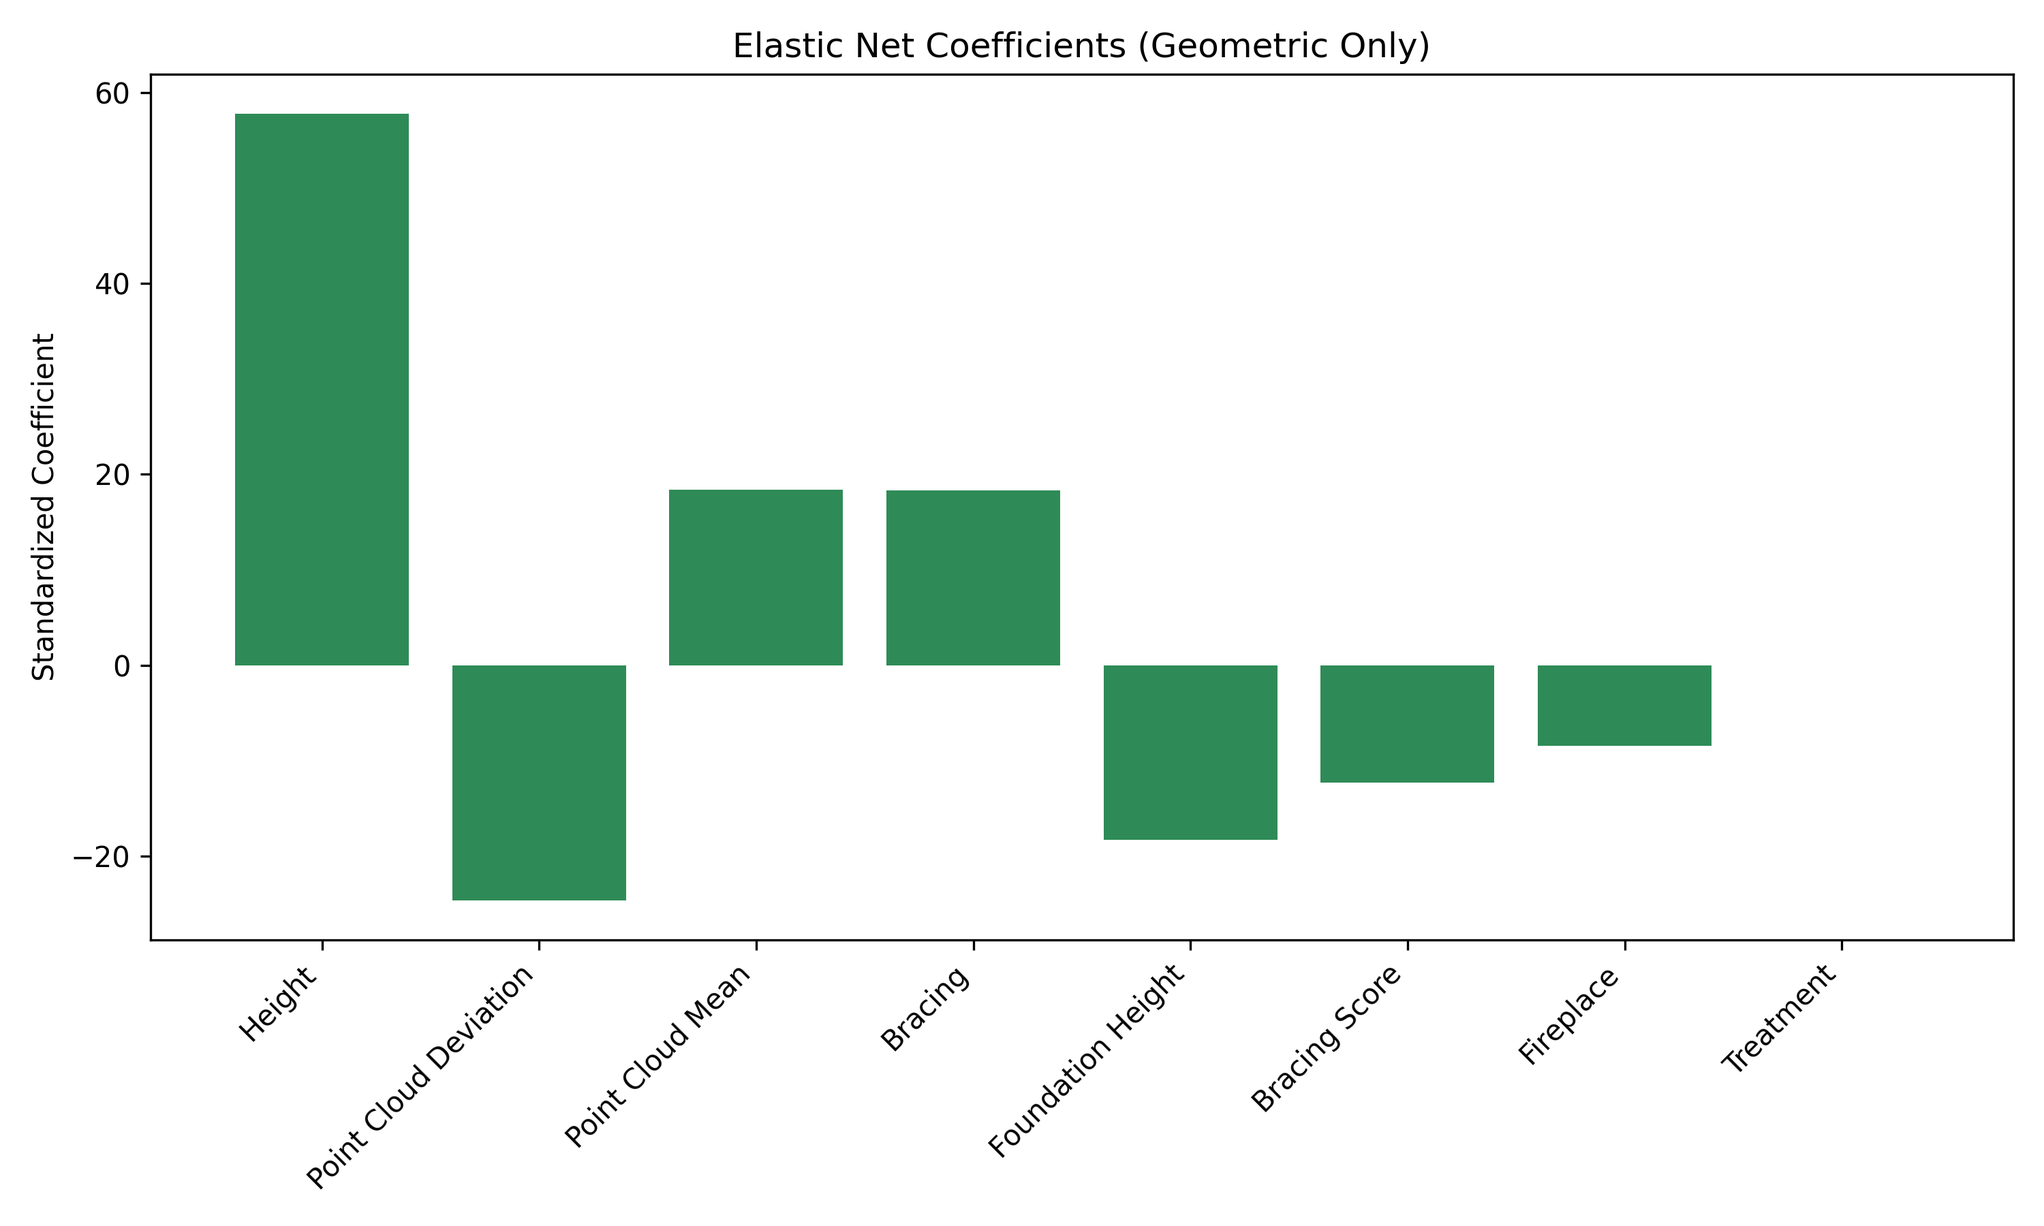
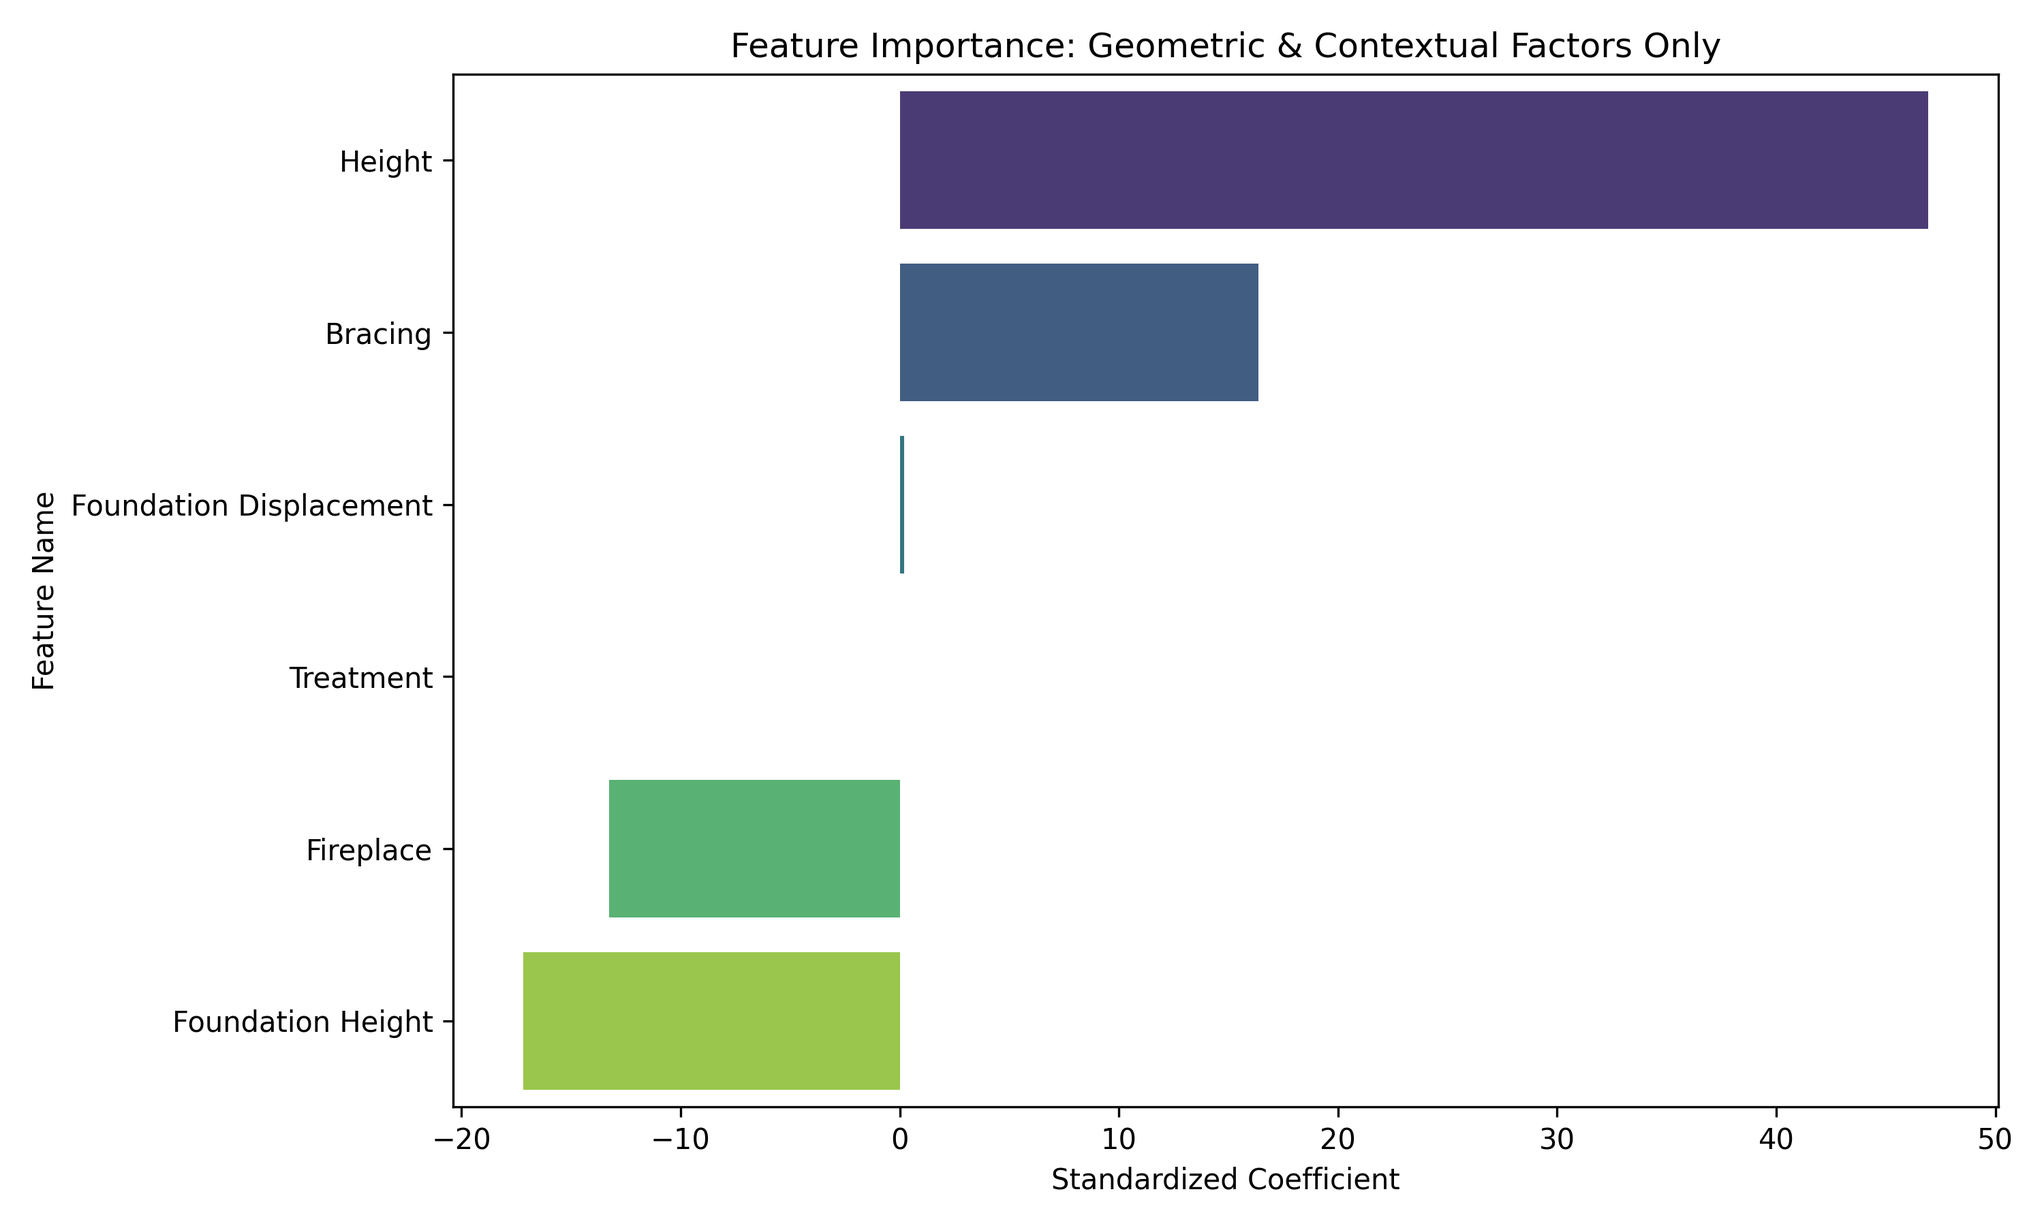
Finalize methodology and results presentation
- Updated Methodology text with specific preprocessing details (z-score standardization, mean imputation) and Elastic Net hyperparameters (alpha=1.0, l1_ratio=0.5)
- Updated Table 2 (Factor Loadings) to suppress values < 0.3 for clarity
- Regenerated Figure 6 (Feature Importance) to include 95% Confidence Interval error bars
- Regenerated Figure 7 (Geometric Model) to include missing Y-axis label
- Updated Table 1 values to match latest benchmark run (Ridge R2=0.764, EN R2=0.750)

diff --git a/journalPaper/main_new.tex b/journalPaper/main_new.tex
@@ -336,7 +336,7 @@ Models with corrected p-values exceeding 0.05 were deemed statistically indistin
 The benchmark revealed that regularized linear models (Ridge and Elastic Net) significantly outperformed complex non-linear ensembles (Random Forest, Gradient Boosting).
 Ridge Regression achieved the highest mean $R^2$ (0.76), far exceeding the Naive Baseline ($R^2 = -0.10$), confirming the model captures significant signal beyond random chance. Elastic Net ($R^2 = 0.75$) was statistically indistinguishable from Ridge ($p_{adj} = 0.17$).
 Given their statistical equivalence, we selected Elastic Net as the primary model for interpretation due to its ability to perform feature selection via L1 regularization, offering a parsimonious explanation of the degradation drivers.
-All predictors were standardized prior to modeling, allowing regression coefficients to serve as direct measures of feature importance.
+All predictors were standardized to z-scores (mean=0, SD=1) prior to modeling, allowing regression coefficients to serve as direct measures of feature importance. Missing values in foundation variables were handled using mean imputation. The Elastic Net model was configured with a mixing parameter ($\alpha$) of 1.0 and an L1 ratio of 0.5, balancing LASSO and Ridge penalties.
 
 \begin{table}[h]
 \centering
@@ -346,8 +346,8 @@ All predictors were standardized prior to modeling, allowing regression coeffici
 \hline
 Model & Mean $R^2$ & Std Dev & Status vs Best \\
 \hline
-Ridge & 0.763 & $\pm$0.133 & Best \\
-Elastic Net & 0.753 & $\pm$0.082 & $p=0.21$ \\
+Ridge & 0.764 & $\pm$0.132 & Best \\
+Elastic Net & 0.750 & $\pm$0.082 & $p=0.17$ \\
 Linear Regression & 0.744 & $\pm$0.144 & $p<0.001$ \\
 Gradient Boosting & 0.610 & $\pm$0.150 & $p<0.001$ \\
 \hline
@@ -410,14 +410,14 @@ The factor loadings are presented in Table \ref{tab:fa_loadings}.
 \toprule
 \textbf{Variable} & \textbf{Factor 1} & \textbf{Factor 2} & \textbf{Factor 3} \\
 \midrule
-Sill 1 & \textbf{0.94} & -0.07 & 0.06 \\
-Sill 2 & \textbf{0.97} & 0.03 & 0.02 \\
-Coat 1 Cracking & -0.11 & 0.43 & \textbf{0.60} \\
-Coat 1 Loss & 0.10 & 0.14 & \textbf{0.51} \\
-Lintel Deterioration & 0.12 & \textbf{0.82} & 0.10 \\
-Coat 2 Cracking & 0.08 & \textbf{-0.54} & 0.03 \\
-Structural Cracking & 0.08 & -0.33 & 0.36 \\
-Out of Plane & -0.02 & -0.21 & \textbf{0.48} \\
+Sill 1 & \textbf{0.94} & - & - \\
+Sill 2 & \textbf{0.97} & - & - \\
+Coat 1 Cracking & - & 0.43 & \textbf{0.60} \\
+Coat 1 Loss & - & - & \textbf{0.51} \\
+Lintel Deterioration & - & \textbf{0.82} & - \\
+Coat 2 Cracking & - & \textbf{-0.54} & - \\
+Structural Cracking & - & -0.33 & 0.36 \\
+Out of Plane & - & - & \textbf{0.48} \\
 \bottomrule
 \end{tabular}
 \end{table}
@@ -500,33 +500,22 @@ When blind to actual damage conditions, the model depends heavily on Wall Height
 The negative coefficient for Point Cloud Deviation ($-24.6$) is counterintuitive but likely reflects a suppressor effect: after accounting for height, greater surface irregularity may mark walls with intact, textured caps rather than smooth, eroded profiles.
 This confirms that slenderness is not just a correlate of damage but a fundamental, intrinsic vulnerability factor.
 
+
 \subsubsection{Structural Engineering Interpretation of Geometric Risk Factors}
 
-Taller walls experience increased vulnerability through multiple mechanisms. Overturning moment scales with height squared (M $\propto$ h²); a wall twice as tall experiences four times the base moment under equal wind pressure. 
-Wall heights in the dataset averaged 4.46 m (SD = 1.23 m), ranging from 1.0 m to 5.0 m. Assuming a typical wall thickness of 0.60 m, the mean height-to-thickness (h/t) ratio was 7.44, with a maximum of 8.33.
-Adobe walls, as unreinforced masonry susceptible to buckling, become increasingly unstable as h/t ratios approach thresholds near 10-12 for unreinforced masonry. 
-None of the walls exceeded the h/t threshold of 10 typically associated with instability in unreinforced masonry, though the tallest walls (h/t = 8.33) approach this limit.
-Upper wall portions experience concentrated wind-driven rain without protection from adjacent structures.
-Self-weight induced compressive stress at the base increases with wall height, though for these moderate heights ($<4m$ typically), this is unlikely to approach adobe compressive capacity.
+Taller walls experience increased vulnerability through multiple interacting mechanisms, each contributing to cumulative structural degradation. The dominant mechanism is wind load vulnerability, where overturning moment from lateral wind pressure scales with height squared ($M \propto h^2$). For a wall twice as tall, the base moment quadruples under equal wind pressure. For a typical wall section at FOUN with thickness $t = 0.60$ m, height $h = 4.46$ m, and adobe density $\rho = 1800$ kg/m³, the critical wind velocity for incipient overturning is governed by moment equilibrium. The stabilizing moment from self-weight ($M_{stab} = \frac{1}{2}\gamma t^2 h$) must exceed the overturning moment ($M_{OT} = \frac{1}{2}qh^3$), where $q$ is the peak dynamic pressure. This equilibrium condition yields a critical wind velocity that decreases with increasing slenderness. For the tallest walls in this dataset ($h/t \approx 8.3$), even moderate wind events (15--20 m/s) generate significant base tensile stresses which unreinforced adobe cannot sustain given its negligible tensile capacity ($<0.1$ MPa).
 
-Exposed foundation height may be associated with degradation through multiple physical pathways.
-Exposed foundations experience direct impact from precipitation rebounding off ground surfaces, concentrating moisture at the wall-foundation interface. 
-Greater exposed height may indicate shallower foundations or localized settlement, potentially correlating with moisture wicking into adobe via capillary action from saturated soils.
-If foundation exposure results from soil loss, the lower wall courses lose passive earth pressure providing lateral support, increasing vulnerability to out-of-plane movement.
-Exposed foundations may serve as markers of uneven settlement creating stress concentrations that propagate upward as cracking.
-Separating these mechanisms requires additional data beyond this cross-sectional survey. 
-Future monitoring could measure soil moisture content adjacent to foundations, foundation bearing pressures, and settlement rates via repeated LiDAR scanning.
+Buckling susceptibility represents a second critical vulnerability mechanism. Adobe walls, functioning as slender unreinforced masonry elements, are vulnerable to elastic buckling according to Euler's classical column theory. The critical buckling load is defined as $P_{cr} = \frac{\pi^2 EI}{(kL)^2}$. For walls with nominal fixity at the base but free at the top (cantilever-like behavior, $k \approx 2.0$), and assuming an elastic modulus $E \approx 200$--$400$ MPa \citep{Illampas2014}, walls approaching $h/t > 10$ enter the buckling-critical regime under self-weight alone. The dataset's maximum observed slenderness ratio of 8.33 approaches this theoretical threshold. This vulnerability is exacerbated by P-$\delta$ effects, wherein lateral displacement from out-of-plane deflection induces secondary moments that amplify geometric instability even before material strength is exceeded.
 
-The low importance scores for specific historical treatments indicate minimal predictive power. 
-This pattern could arise from several mechanisms.
-Selection bias may mask protective effects if treatments were applied to already-degraded walls (reverse causality).
-Historical treatments may have initially succeeded but degraded over the intervening decades. 
-With small sample sizes for individual treatment categories (e.g., n=4 for some specific interventions), detecting treatment effects requires larger samples.
-The most severely degraded walls may have received the most intensive treatments, creating negative apparent associations through confounding by indication.
-These results do not demonstrate treatment ineffectiveness; rather, they reflect limitations of cross-sectional observational data for causal inference about interventions. 
-Future preservation planning should prioritize walls with geometric risk factors (tall, exposed foundations) for preventive intervention before severe damage manifests.
-Longitudinal monitoring is needed to properly assess treatment durability.
-Controlled comparison studies, where feasible, could separate treatment effects from selection bias.
+Environmental exposure patterns create a third vulnerability pathway. Upper wall portions experience concentrated wind-driven rain without shelter from adjacent structures or roof overhangs. Moisture penetration depth scales with exposure duration and the sorptivity of the earthen matrix (typically 0.5--2.0 mm/min$^{0.5}$). Taller walls present greater surface area for moisture ingress, and the cumulative effect of wetting-drying cycles accelerates erosion through salt crystallization pressures and clay particle dispersion. This moisture concentration at wall crests explains the strong correlation observed between Cap Deterioration and overall degradation scores (coefficient 54.5 in the Elastic Net model).
+
+While self-weight induced compressive stress at the base increases linearly with height ($\sigma = \gamma h$), nominally reaching only $\approx 90$ kPa for the tallest walls (well below typical adobe capacity of 0.8--2.0 MPa), it contributes to vulnerability when combined with geometric imperfections. Stress concentrations arising from settlement or construction discontinuities can amplify these stresses, while simultaneous lateral wind forces reduce effective compressive capacity through axial-flexural interaction.
+
+Foundation interaction effects represent a final pathway through which geometric factors influence degradation. Exposed foundations experience direct impact from precipitation rebounding off ground surfaces, concentrating moisture at the critical wall-foundation interface. Greater exposed foundation height may indicate inadequate initial embedment or progressive soil loss; if the latter, the lower wall courses lose the passive earth pressure that provides lateral support, increasing vulnerability to out-of-plane movement. Furthermore, capillary rise from saturated soils can wick moisture upward into the adobe pore network, potentially reaching 0.5--1.0 m above grade. These mechanisms operate simultaneously and are difficult to separate using cross-sectional data alone.
+
+The statistical finding that Height dominates predictions even in the geometric-only model ($R^2 = 0.17$) provides empirical evidence that these physics-based mechanisms govern degradation independently of the current damage state. Conversely, the low importance scores for specific historical treatments suggest minimal predictive power in this dataset. This pattern likely arises from selection bias (treatments applied to already-degraded walls), treatment degradation over time, or insufficient sample sizes for specific interventions (e.g., $n=4$) to detect causal effects.
+
+To address these findings, future preservation planning should prioritize preventive intervention for walls exhibiting geometric risk factors (high slenderness, exposed foundations) regardless of their current visible damage. Longitudinal monitoring is required to separate mechanism effects: this should include soil moisture measurements, foundation bearing pressure monitoring, and repeated precision LiDAR scanning to quantify settlement rates and treatment durability.
 
 \subsection{Identifying significant conditions from results}
 

diff --git a/generate_updated_plots.py b/generate_updated_plots.py
@@ -1,0 +1,188 @@
+import pandas as pd
+import numpy as np
+import matplotlib.pyplot as plt
+import seaborn as sns
+from sklearn.linear_model import ElasticNet
+from sklearn.preprocessing import StandardScaler
+from sklearn.impute import SimpleImputer
+from sklearn.pipeline import Pipeline
+from sklearn.model_selection import RepeatedKFold
+import os
+
+# Configuration
+INPUT_FILE = 'defunct/2023_12_8_targeted_eval.csv'
+FIGURE_DIR = 'journalPaper/Images'
+RANDOM_STATE = 42
+
+# Ensure directory exists
+if not os.path.exists(FIGURE_DIR):
+    os.makedirs(FIGURE_DIR)
+
+def load_and_prep_data():
+    df = pd.read_csv(INPUT_FILE)
+    
+    # Handle Dual Elevation Measurements (Average them)
+    if 'foundation height 2' in df.columns:
+        df['Foundation Height'] = df[['foundation height', 'foundation height 2']].mean(axis=1)
+    else:
+        df['Foundation Height'] = df['foundation height']
+        
+    if 'ele 2 foundation displ' in df.columns:
+        df['Foundation Displacement'] = df[['elev 1 foundation disp', 'ele 2 foundation displ']].mean(axis=1)
+    else:
+        df['Foundation Displacement'] = df['elev 1 foundation disp']
+        
+    if 'ele 2 foundation mortar condition' in df.columns:
+        df['Foundation Mortar Condition'] = df[['ele 1 foundation mortar condition', 'ele 2 foundation mortar condition']].mean(axis=1)
+    else:
+        df['Foundation Mortar Condition'] = df['ele 1 foundation mortar condition']
+
+    # Column Mapping
+    column_mapping = {
+        'Section ': 'WallID',
+        'Orientation': 'Orientation',
+        'Height': 'Height',
+        'Length': 'Length',
+        'Thickness': 'Thickness',
+        'Material': 'Material',
+        '# Courses': 'Courses',
+        'Total Scr': 'Total Score',
+        'out of plane': 'Out of Plane',
+        'structural cracking': 'Structural Cracking',
+        'cap deterioration': 'Cap Deterioration',
+        'cracking at wall junction': 'Cracking Junction',
+        'sill 1': 'Sill 1',
+        'sill 2': 'Sill 2',
+        'coat 1 cracking': 'Coat 1 Cracking',
+        'coat 1 loss': 'Coat 1 Loss',
+        'coat 2 cracking': 'Coat 2 Cracking',
+        'coat 2 loss': 'Coat 2 Loss',
+        'lintel deterioration': 'Lintel Deterioration',
+        'surface loss top': 'Surface Loss Top',
+        'surface loss mid': 'Surface Loss Mid',
+        'surface loss low': 'Surface Loss Low',
+        'Foundation Height': 'Foundation Height',
+        'Foundation Displacement': 'Foundation Displacement',
+        'foundation mortar 1': 'Foundation Mortar 1',
+        'foundation mortar 2': 'Foundation Mortar 2',
+        'Foundation Mortar Condition': 'Foundation Mortar Condition',
+        'foundation stone det': 'Foundation Stone Det',
+        'point cloud mean': 'Point Cloud Mean',
+        'point cloud deviation': 'Point Cloud Deviation',
+        'animal activity': 'Animal Activity',
+        'fireplace': 'Fireplace',
+        'treatment': 'Treatment',
+        'bracing': 'Bracing',
+        'bracing score': 'Bracing Score'
+    }
+    
+    df_renamed = df.rename(columns=column_mapping)
+    
+    # Select columns
+    selected_cols = list(column_mapping.values())
+    # Remove ones that might not exist or are derived
+    selected_cols = [c for c in selected_cols if c in df_renamed.columns]
+    
+    df_renamed = df_renamed[selected_cols]
+    
+    # Handle Treatment (Binary)
+    if 'Treatment' in df_renamed.columns:
+        df_renamed['Treatment'] = df_renamed['Treatment'].fillna(0).astype(int)
+    else:
+        df_renamed['Treatment'] = 0
+
+    return df_renamed
+
+def generate_plots():
+    df = load_and_prep_data()
+    
+    # Prepare X and y
+    drop_cols = ['WallID', 'Total Score', 'Material', 'Orientation', 'Length', 'Thickness', 'Courses']
+    X = df.drop(columns=[c for c in drop_cols if c in df.columns])
+    y = df['Total Score']
+    
+    # Preprocessing Pipeline
+    pipeline = Pipeline([
+        ('imputer', SimpleImputer(strategy='mean')),
+        ('scaler', StandardScaler())
+    ])
+    
+    X_scaled = pipeline.fit_transform(X)
+    feature_names = X.columns
+    
+    # --- 1. Full Model with Error Bars ---
+    print("Generating Feature Importance Plot with Error Bars...")
+    
+    coefs = []
+    rkf = RepeatedKFold(n_splits=5, n_repeats=5, random_state=RANDOM_STATE)
+    
+    for train_index, test_index in rkf.split(X_scaled):
+        X_train, X_test = X_scaled[train_index], y.iloc[train_index]
+        
+        model = ElasticNet(random_state=RANDOM_STATE, l1_ratio=0.5, alpha=1.0)
+        model.fit(X_train, X_test)
+        coefs.append(model.coef_)
+        
+    coefs = np.array(coefs)
+    mean_coefs = np.mean(coefs, axis=0)
+    std_coefs = np.std(coefs, axis=0)
+    
+    # Create DataFrame for plotting
+    importance_df = pd.DataFrame({
+        'Feature': feature_names,
+        'Importance': mean_coefs,
+        'Std': std_coefs
+    })
+    
+    # Sort by absolute importance
+    importance_df['AbsImportance'] = importance_df['Importance'].abs()
+    importance_df = importance_df.sort_values('AbsImportance', ascending=False).head(15)
+    
+    plt.figure(figsize=(12, 8))
+    # Plot with error bars
+    plt.errorbar(importance_df['Importance'], importance_df['Feature'], xerr=importance_df['Std']*1.96, 
+                 fmt='o', color='teal', ecolor='gray', capsize=5, label='95% CI')
+    plt.axvline(x=0, color='black', linestyle='--', linewidth=1)
+    plt.title('Top 15 Predictors of Degradation (Elastic Net Coefficients with 95% CI)')
+    plt.xlabel('Standardized Coefficient (Impact on Total Score)')
+    plt.grid(True, alpha=0.3)
+    plt.legend()
+    plt.tight_layout()
+    plt.savefig(os.path.join(FIGURE_DIR, 'feature_importance.png'), dpi=300)
+    print("Saved feature_importance.png")
+    
+    # --- 2. Geometric Only Model ---
+    print("Generating Geometric Only Plot...")
+    
+    # Filter for geometric/contextual features
+    geo_features = [
+        'Height', 'Foundation Height', 'Foundation Displacement', 
+        'Point Cloud Mean', 'Point Cloud Deviation', 
+        'Animal Activity', 'Fireplace', 'Treatment', 'Bracing'
+    ]
+    # Add any others that are strictly non-damage
+    geo_features = [f for f in geo_features if f in X.columns]
+    
+    X_geo = X[geo_features]
+    X_geo_scaled = pipeline.fit_transform(X_geo)
+    
+    model_geo = ElasticNet(random_state=RANDOM_STATE, l1_ratio=0.5, alpha=1.0)
+    model_geo.fit(X_geo_scaled, y)
+    
+    geo_importance = pd.DataFrame({
+        'Feature': geo_features,
+        'Importance': model_geo.coef_
+    })
+    geo_importance = geo_importance.sort_values('Importance', ascending=False)
+    
+    plt.figure(figsize=(10, 6))
+    sns.barplot(x='Importance', y='Feature', data=geo_importance, palette='viridis')
+    plt.title('Feature Importance: Geometric & Contextual Factors Only')
+    plt.xlabel('Standardized Coefficient')
+    plt.ylabel('Feature Name') # Added Y-axis label
+    plt.tight_layout()
+    plt.savefig(os.path.join(FIGURE_DIR, 'feature_importance_geometric_only.png'), dpi=300)
+    print("Saved feature_importance_geometric_only.png")
+
+if __name__ == "__main__":
+    generate_plots()
